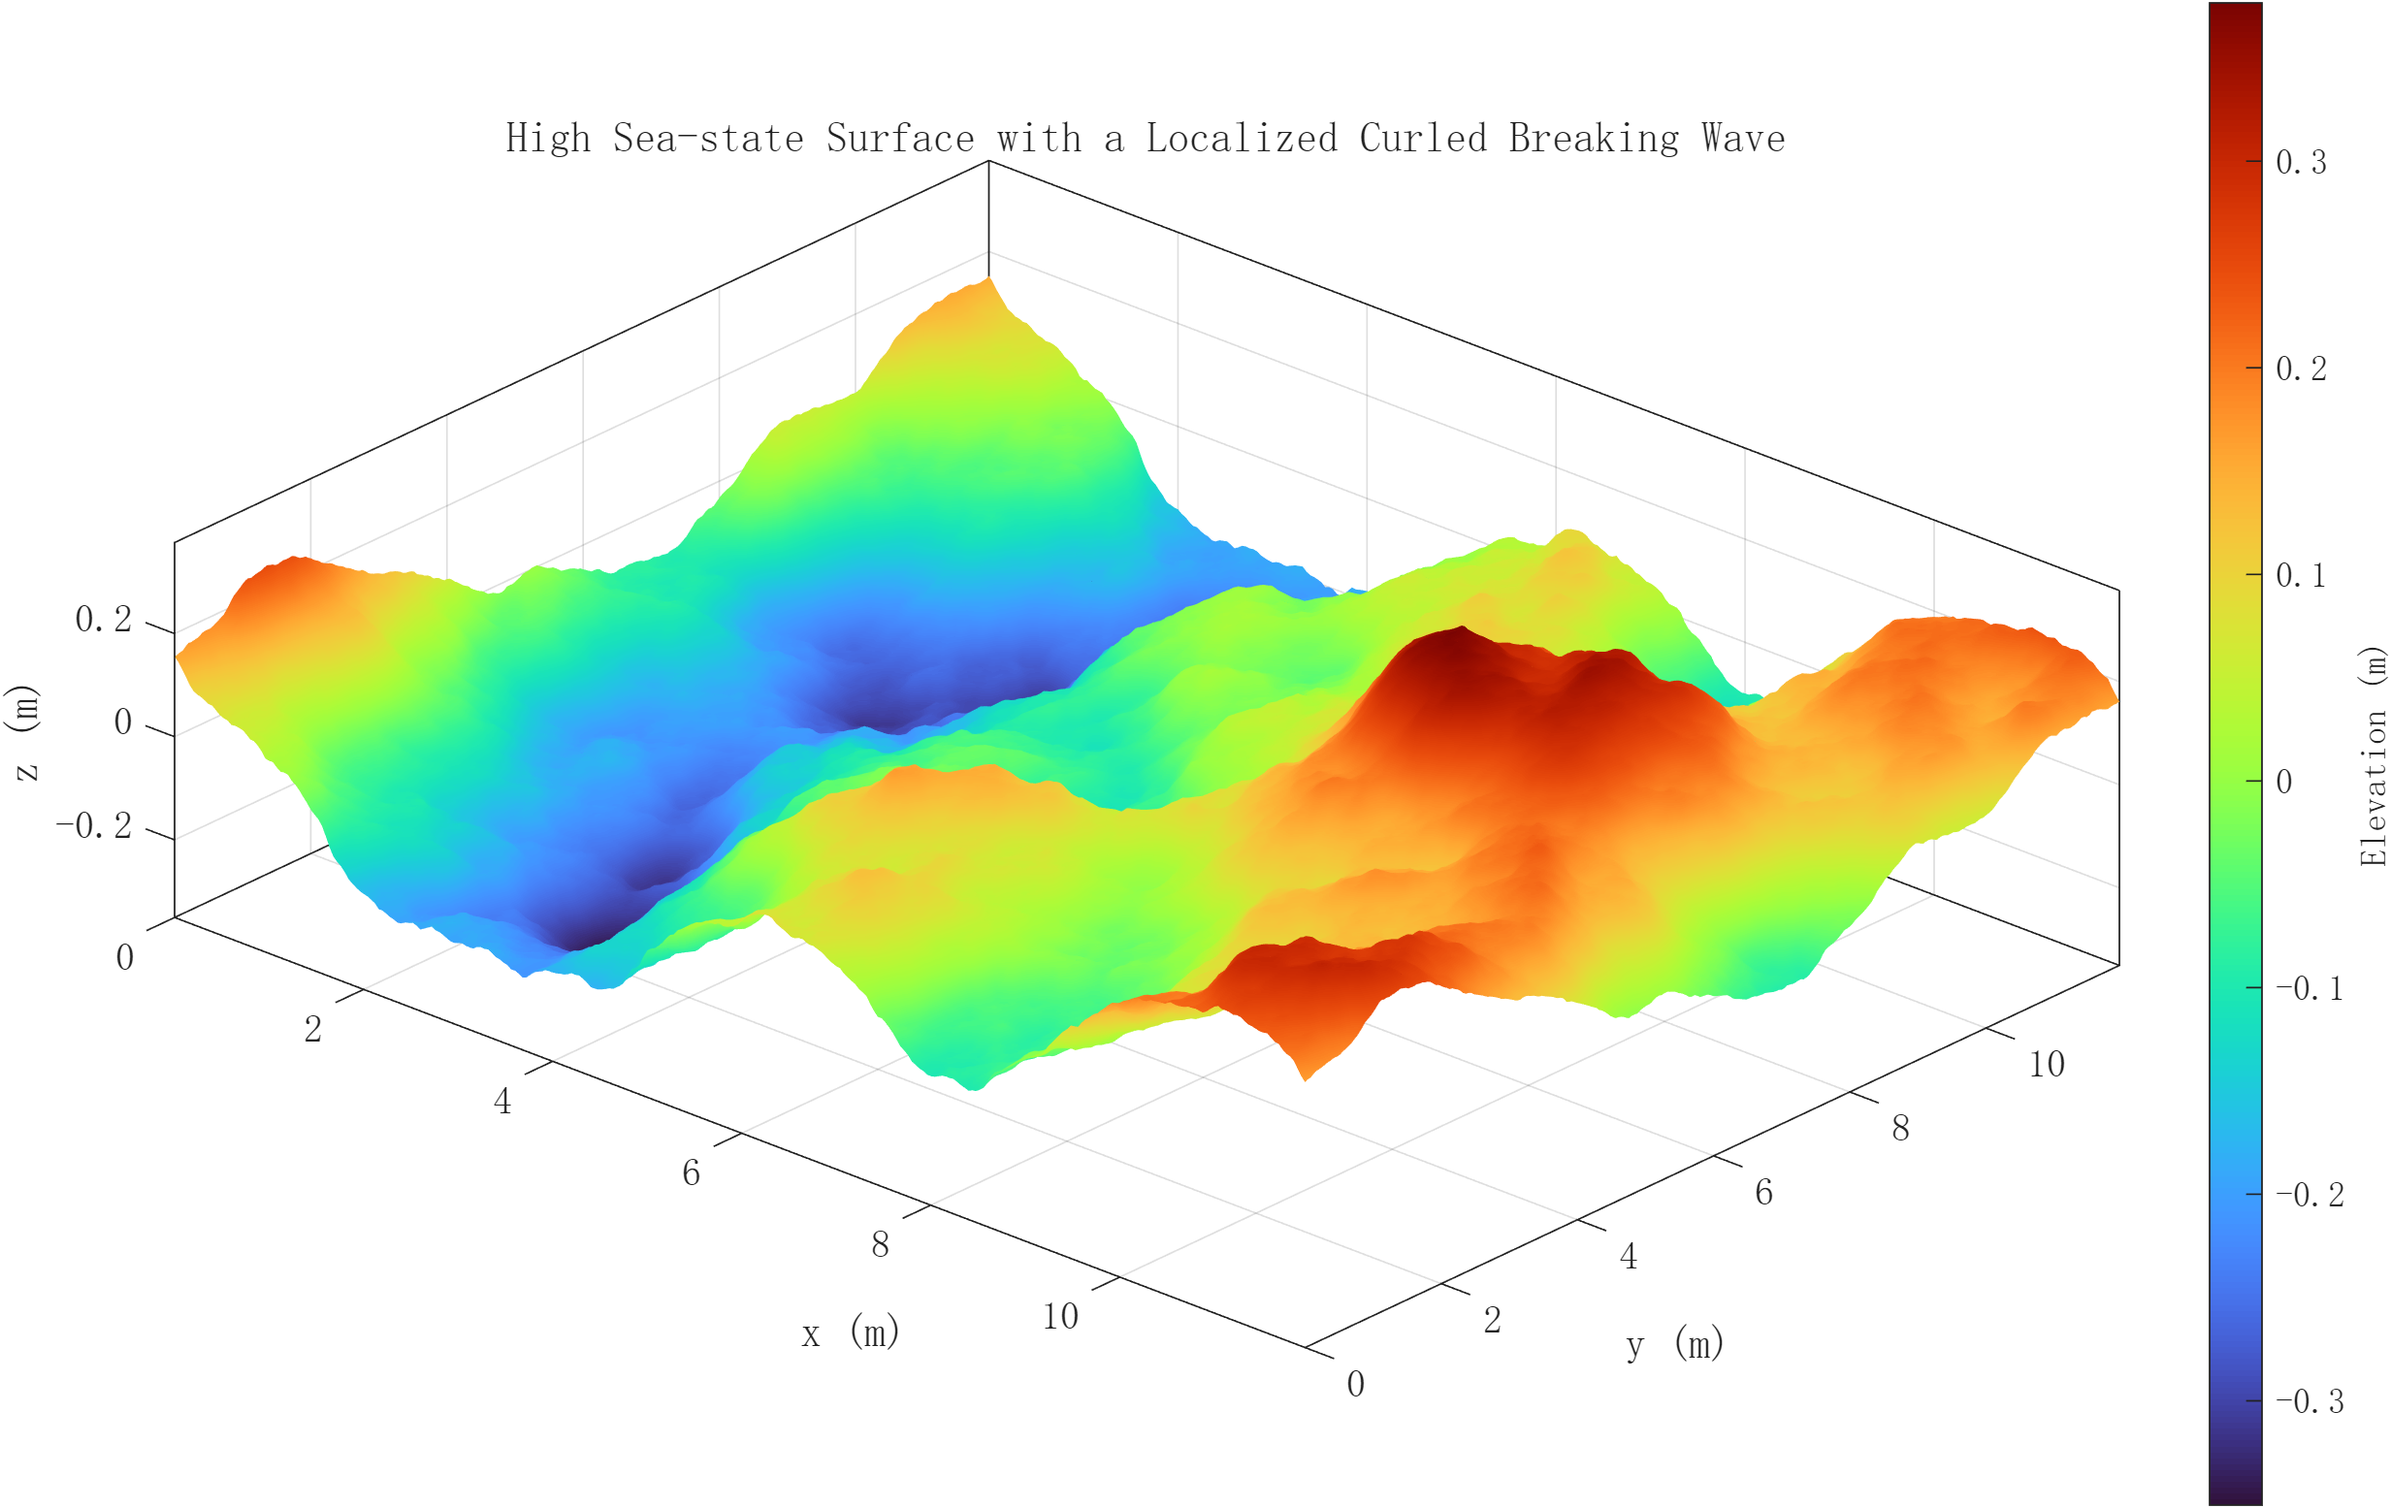
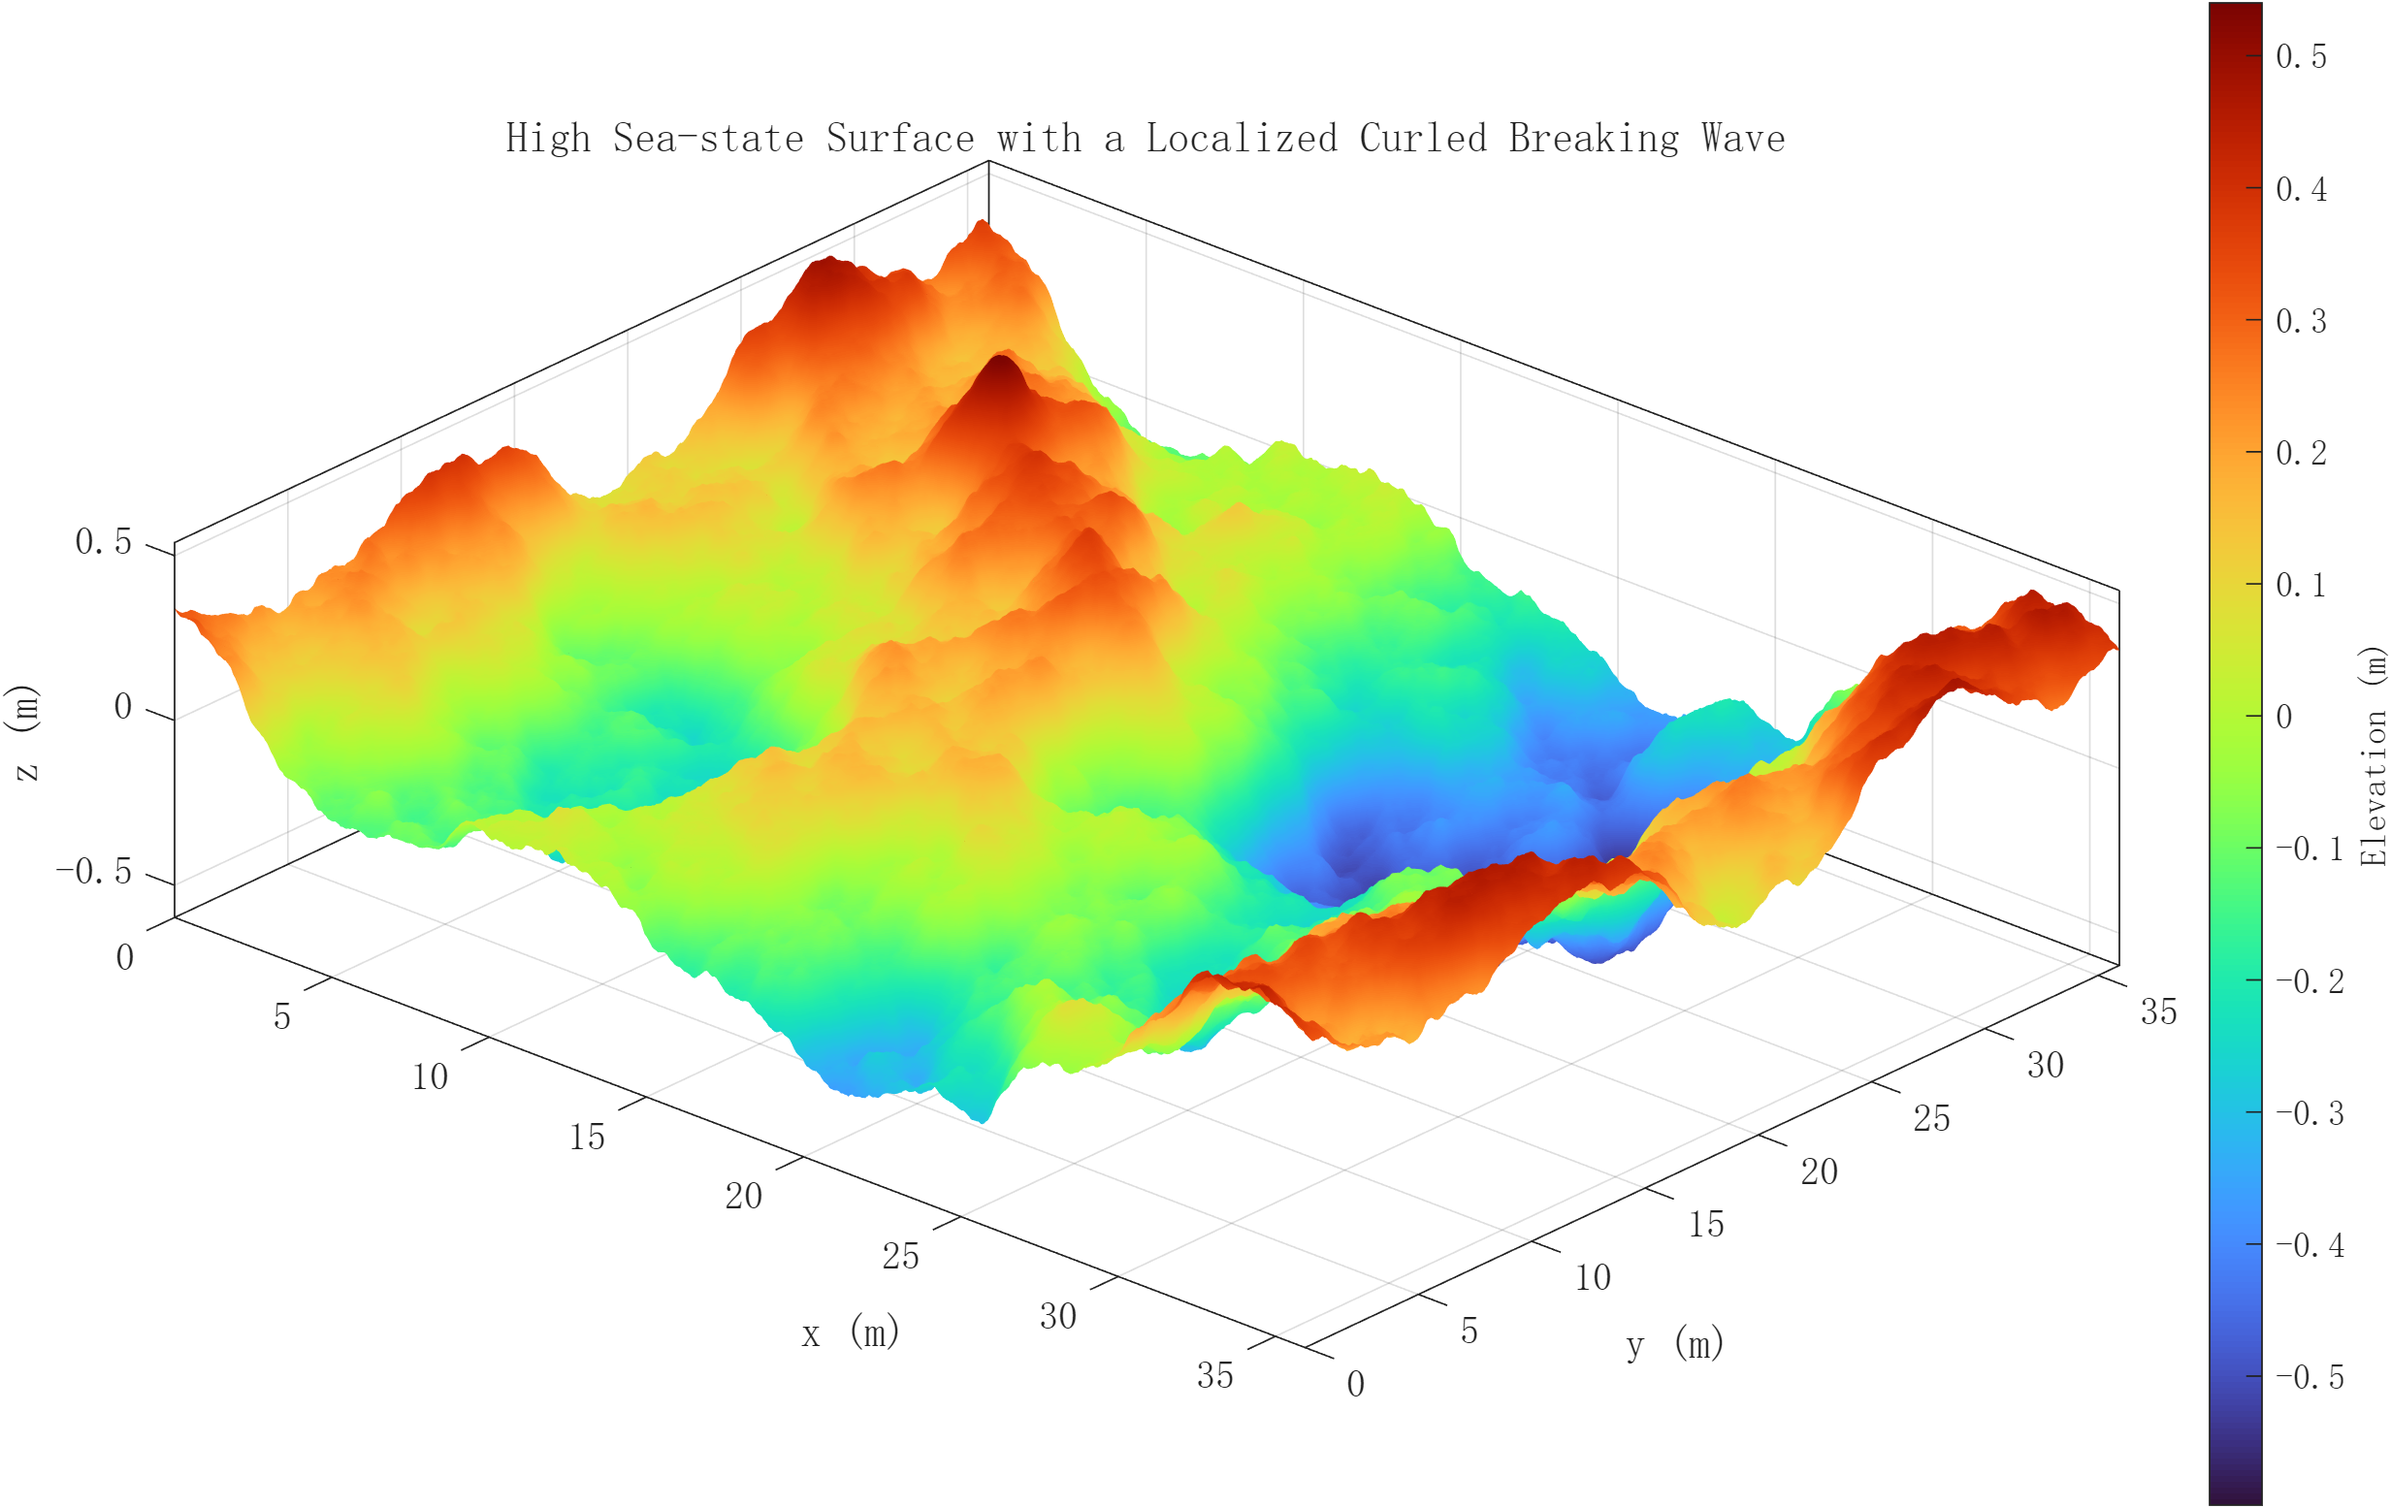
Resolve high sea-state spectral morphology

diff --git a/Code/20260824_Verification/Simulation/run_high_sea_state_curl_demo.m b/Code/20260824_Verification/Simulation/run_high_sea_state_curl_demo.m
@@ -2,22 +2,33 @@ clear; close all; clc;
 
 cfg = default_localized_curl_config();
 
-% Keep the same random phase realization and raise only the sea condition.
+% Use a larger domain and an independent realization so that the higher
+% sea state changes the resolved wavelengths and morphology, not only Hs.
+cfg.randomSeed = 20260824;
+cfg.domain.Lx = 36.0;
+cfg.domain.Ly = 36.0;
+cfg.domain.dx = 0.06;
+cfg.domain.dy = 0.06;
 cfg.sea.U10 = 12.0;
-cfg.sea.targetHs = 0.60;
+cfg.sea.inverseWaveAge = 2.0;
+cfg.sea.windDirectionDeg = 15.0;
+cfg.sea.targetHs = 0.90;
 
-% Scale the localized geometry moderately with the larger waves while
-% retaining a low rotation angle and a long transition region.
-cfg.patch.crestLength = 3.8;
-cfg.patch.crossWaveWidth = 2.10;
-cfg.patch.transitionLength = 1.35;
-cfg.patch.crestHeight = 0.075;
+% Scale the localized geometry with the larger, younger wind waves while
+% retaining a low rotation angle and a broad transition region.
+cfg.patch.crestSearchSmoothingLength = 0.40;
+cfg.patch.crestRefineRadius = 0.50;
+cfg.patch.propagationDirectionDeg = 15.0;
+cfg.patch.crestLength = 7.0;
+cfg.patch.crossWaveWidth = 3.60;
+cfg.patch.transitionLength = 2.40;
+cfg.patch.crestHeight = 0.080;
 cfg.patch.evolutionHeight = 0.050;
-cfg.patch.evolutionLean = 0.060;
-cfg.patch.curlCenterOffset = -0.28;
+cfg.patch.evolutionLean = 0.080;
+cfg.patch.curlCenterOffset = -0.55;
 cfg.patch.maxCurlDeg = 20.0;
-cfg.patch.pivotDepth = 0.065;
-cfg.patch.forwardLean = 0.025;
+cfg.patch.pivotDepth = 0.100;
+cfg.patch.forwardLean = 0.040;
 
 cfg.output.outputDirectory = fullfile(fileparts(mfilename('fullpath')), ...
     'output', 'high_sea_state');
@@ -35,6 +46,9 @@ assert(surfaceData.metrics.maxOutsidePatchDisplacement < 1e-12, ...
 fprintf('High sea-state curled surface generated.\n');
 fprintf('  U10                      : %.2f m/s\n', cfg.sea.U10);
 fprintf('  target Hs                : %.2f m\n', cfg.sea.targetHs);
+fprintf('  inverse wave age         : %.2f\n', cfg.sea.inverseWaveAge);
+fprintf('  domain                   : %.1f x %.1f m\n', ...
+    cfg.domain.Lx, cfg.domain.Ly);
 fprintf('  detected crest elevation: %.3f m\n', ...
     surfaceData.crestDetection.z);
 fprintf('  maximum elevation change: %.3f m\n', ...

diff --git a/Code/20260824_Verification/Simulation/README.md b/Code/20260824_Verification/Simulation/README.md
@@ -9,7 +9,7 @@
 - `generate_localized_elfouhaily_curl_patch.m`: 自动搜索边界安全区域内的最高有效波峰，并在该峰顶生成配对的背景面和局部三维卷浪面。
 - `run_localized_elfouhaily_curl_demo.m`: 卷浪生成、六个独立 MATLAB figure 的可视化和 MAT 保存示例。
 - `plot_curled_sea_only.m`: 只绘制卷曲后 G1 海面并导出独立 PNG，不包含对照组、剖面线或位置标记。
-- `run_high_sea_state_curl_demo.m`: 在相同随机相位下生成 `U10=12 m/s`、`Hs=0.60 m` 的较高海况卷浪，并以两个独立 figure 输出卷曲海面和中心剖面对比。
+- `run_high_sea_state_curl_demo.m`: 在 `36 m x 36 m` 计算域内，以独立随机相位生成 `U10=12 m/s`、`Hs=0.90 m`、逆波龄 `2.0` 的较高海况卷浪，并以两个独立 figure 输出卷曲海面和中心剖面对比。
 
 ## Current Boundary
 
